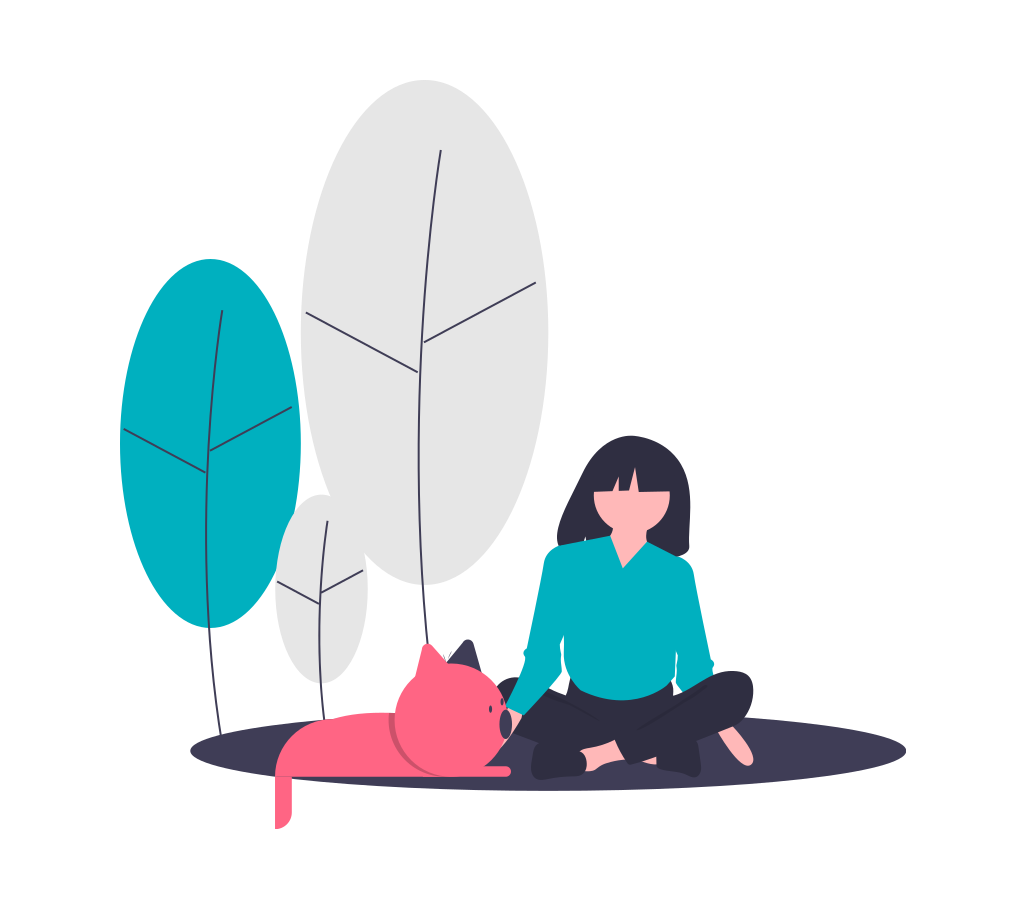
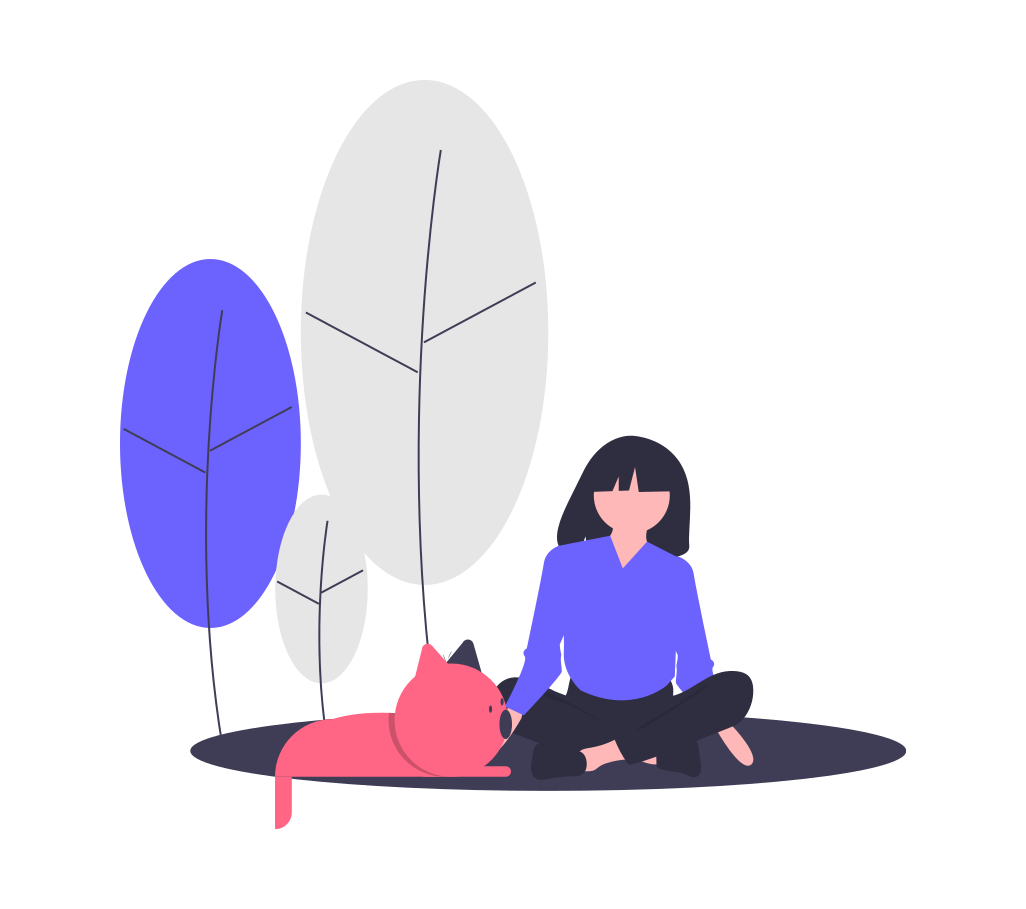
feat: added navigation between onboarding screen and main stack screens with bottom navbar

Changed region(s): [[0.0936, 0.2772, 0.3119, 0.7085], [0.499, 0.5853, 0.7173, 0.8009]]

diff --git a/screens/ScreenStack.js b/screens/ScreenStack.js
@@ -2,21 +2,67 @@ import React from 'react';
 // React Navigation
 import { NavigationContainer } from '@react-navigation/native';
 import { createStackNavigator } from '@react-navigation/stack'
-// Screens 
+import { createBottomTabNavigator } from '@react-navigation/bottom-tabs';
+// Main App Screens Stack
 import OnBoardingScreen from './OnBoardingScreen'
 import HomeScreen from './HomeScreen'
+// New Post Screen
+import NewPosts from './NewPost';
+// Shelters Screen
+import Shelters from './Shelters';
 
+// Stack Navigator
 const Stack = createStackNavigator();
 
-// import AdoptionCreate from './screens/mascot/adoption/AdoptionCreateScreen';
-// import AdoptionList from './screens/mascot/adoption/AdoptionListScreen';
-// import AdoptionDetails from './screens/mascot/adoption/AdoptionDetailsScreen';
+function OnBoardingScreenStack() {
+  return (
+    <Stack.Navigator headerMode='none'>
+      <Stack.Screen name='OnBoarding' component={OnBoardingScreen}/>
+    </Stack.Navigator>
+  )
+}
+
+function MainScreenStack() {
+  return (
+    <Stack.Navigator headerMode='none'>
+      <Stack.Screen name='Home' component={HomeScreen} />
+    </Stack.Navigator>
+  )
+}
+
+function PostScreenStack() {
+  return (
+    <Stack.Navigator headerMode='none'>
+      <Stack.Screen name='NewPosts' component={NewPosts} />
+    </Stack.Navigator>
+  )
+}
+
+function ShelterScreenStack() {
+  return (
+    <Stack.Navigator headerMode='none'>
+      <Stack.Screen name='Shelters' component={Shelters} />
+    </Stack.Navigator>
+  )
+}
+
+// Tab Navigator
+const Tab = createBottomTabNavigator();
+function TabStack() {
+  return (
+    <Tab.Navigator>
+      <Tab.Screen name='HomeScreen' component={MainScreenStack} />
+      <Tab.Screen name='NewPostScreen' component={PostScreenStack} />
+      <Tab.Screen name='ShelterScreen' component={ShelterScreenStack} />
+    </Tab.Navigator>
+  )
+}
 
 function AppStack() {
   return (
     <Stack.Navigator headerMode='none'>
-      <Stack.Screen name='OnBoarding' component={OnBoardingScreen}/>
-      <Stack.Screen name='Home' component={HomeScreen} />
+      <Stack.Screen name='OnBoardingScreenStack' component={OnBoardingScreenStack} />
+      <Stack.Screen name='TabStack' component={TabStack} />
     </Stack.Navigator>
   )
 }

diff --git a/components/SliderMenu/OnBoardingItems.js b/components/SliderMenu/OnBoardingItems.js
@@ -1,19 +1,20 @@
 import React from 'react';
 import { View, Text, StyleSheet, Image, useWindowDimensions } from 'react-native'
+// config settings
+import config from '../../utils/config';
 
 const OnBoardingItems = ({item}) => {
 
   const { width } = useWindowDimensions();
-  console.log(item)
-
+  
   return (
     <View style={styles.container}>
       {/* Image Content */}
       <Image source={item.image} style={[styles.image, {width, resizeMode: 'contain'}]}/>
       {/* Text, Description Content */}
       <View style={{ flex: 0.3 }}>
-        <Text style={styles.title}>{item.title}</Text>
-        <Text style={[styles.description, {width, resizeMode: 'contain'}]}>{item.description}</Text>
+        <Text style={[styles.title, {width}]}>{item.title}</Text>
+        <Text style={[styles.description, {width}]}>{item.description}</Text>
       </View>
     </View>
   );
@@ -27,22 +28,24 @@ const styles = StyleSheet.create({
     alignItems: 'center',
   },
   image: {
-    flex: 0.6,
+    flex: 0.7,
     justifyContent: 'center',
   },
   title: {
     fontWeight: '800',
     fontSize: 26,
     marginBottom: 10,
-    color: '#00B0BF',
-    textAlign: 'center'
+    textAlign: 'center',
+    color: config.colorTitle,
+    fontFamily: 'normal'
   },
   description: {
     fontWeight: '400',
-    color: '#62656b',
-    fontSize: 15,
+    color: config.colorDescription,
+    fontSize: 16,
     textAlign: 'center',
     paddingHorizontal: 64,
+    fontFamily: 'sans-serif-light'
   },
 });
 

diff --git a/components/SliderMenu/NextButton.js b/components/SliderMenu/NextButton.js
@@ -3,6 +3,8 @@ import { View, TouchableOpacity, StyleSheet, Animated} from 'react-native';
 import Svg, { G, Circle } from 'react-native-svg';
 import { AntDesign } from '@expo/vector-icons';
 import { MaterialIcons } from '@expo/vector-icons'; 
+// config settings
+import config from '../../utils/config';
 
 const NextButton = ({ percentage, scrollTo }) => {
   
@@ -56,7 +58,7 @@ const NextButton = ({ percentage, scrollTo }) => {
           origin={center}
         >
           <Circle
-            stroke='#C5F0F5'
+            stroke={config.colorBtnCircle}
             cx={center}
             cy={center}
             r={radius}
@@ -64,7 +66,7 @@ const NextButton = ({ percentage, scrollTo }) => {
           />
           <Circle
             ref={progressRef}
-            stroke='#068792'
+            stroke={config.colorTitle}
             cx={center}
             cy={center}
             r={radius}
@@ -90,7 +92,7 @@ const styles = StyleSheet.create({
   },
   button: {
     position: 'absolute',
-    backgroundColor: '#068792',
+    backgroundColor: config.colorTitle,
     borderRadius: 100,
     padding: 20,
   },

diff --git a/components/SliderMenu/Paginator.js b/components/SliderMenu/Paginator.js
@@ -1,5 +1,7 @@
 import React from 'react'
 import { StyleSheet, View, Animated, useWindowDimensions } from 'react-native'
+// config settings
+import config from '../../utils/config';
 
 const Paginator = ({ data, scrollX }) => {
   const { width } = useWindowDimensions();
@@ -39,7 +41,7 @@ const styles = StyleSheet.create({
   dot: {
     height: 10,
     borderRadius: 5,
-    backgroundColor: '#00B0BF',
+    backgroundColor: config.colorTitle,
     marginHorizontal: 8,
   },
 })

diff --git a/screens/NewPost.js b/screens/NewPost.js
@@ -1,0 +1,18 @@
+import React from "react";
+import { View, StyleSheet, Text } from "react-native";
+const NewPosts = () => {
+  return (
+    <View style={styles.center}>
+      <Text>This is the new posts screen</Text>
+    </View>
+  );
+};
+const styles = StyleSheet.create({
+  center: {
+    flex: 1,
+    justifyContent: "center",
+    alignItems: "center",
+    textAlign: "center",
+  },
+});
+export default NewPosts;

diff --git a/screens/Shelters.js b/screens/Shelters.js
@@ -1,0 +1,18 @@
+import React from "react";
+import { View, StyleSheet, Text } from "react-native";
+const Shelters = () => {
+  return (
+    <View style={styles.center}>
+      <Text>This is the shelters screen</Text>
+    </View>
+  );
+};
+const styles = StyleSheet.create({
+  center: {
+    flex: 1,
+    justifyContent: "center",
+    alignItems: "center",
+    textAlign: "center",
+  },
+});
+export default Shelters;

diff --git a/components/SliderMenu/OnBoarding.js b/components/SliderMenu/OnBoarding.js
@@ -24,7 +24,7 @@ const OnBoarding = ({ navigation }) => {
     if(currentIndex < slides.length -1) {
       slidesRef.current.scrollToIndex({ index: currentIndex + 1 })
     } else {
-      navigation.navigate('Home');
+      navigation.navigate('TabStack', {screen: 'HomeScreen'});
       try {
         await AsyncStorage.setItem('@viewedOnBoarding', 'true');
       } catch (error) {

diff --git a/utils/config.js b/utils/config.js
@@ -1,3 +1,10 @@
 export default {
-  color: ''
-}
+  colorTitle: '#6C63FF',
+  colorTitle2: '#d6083b',
+  colorTitle3: '#9C06FF',
+  colorBackground: '#f4f5f6',
+  colorDescription: '#606c76',
+  colorBtn: '#8f2bbc',
+  colorBtnCircle: '#C4C1F7',
+  colorIcon: '#F50057',
+}    

diff --git a/App.js b/App.js
@@ -7,8 +7,8 @@ const App = () => {
 
   return (
     <> 
-    <StatusBar style='dark' />
-    <ScreenStack />
+      <StatusBar style='dark' />
+      <ScreenStack />
     </>
   );
 
